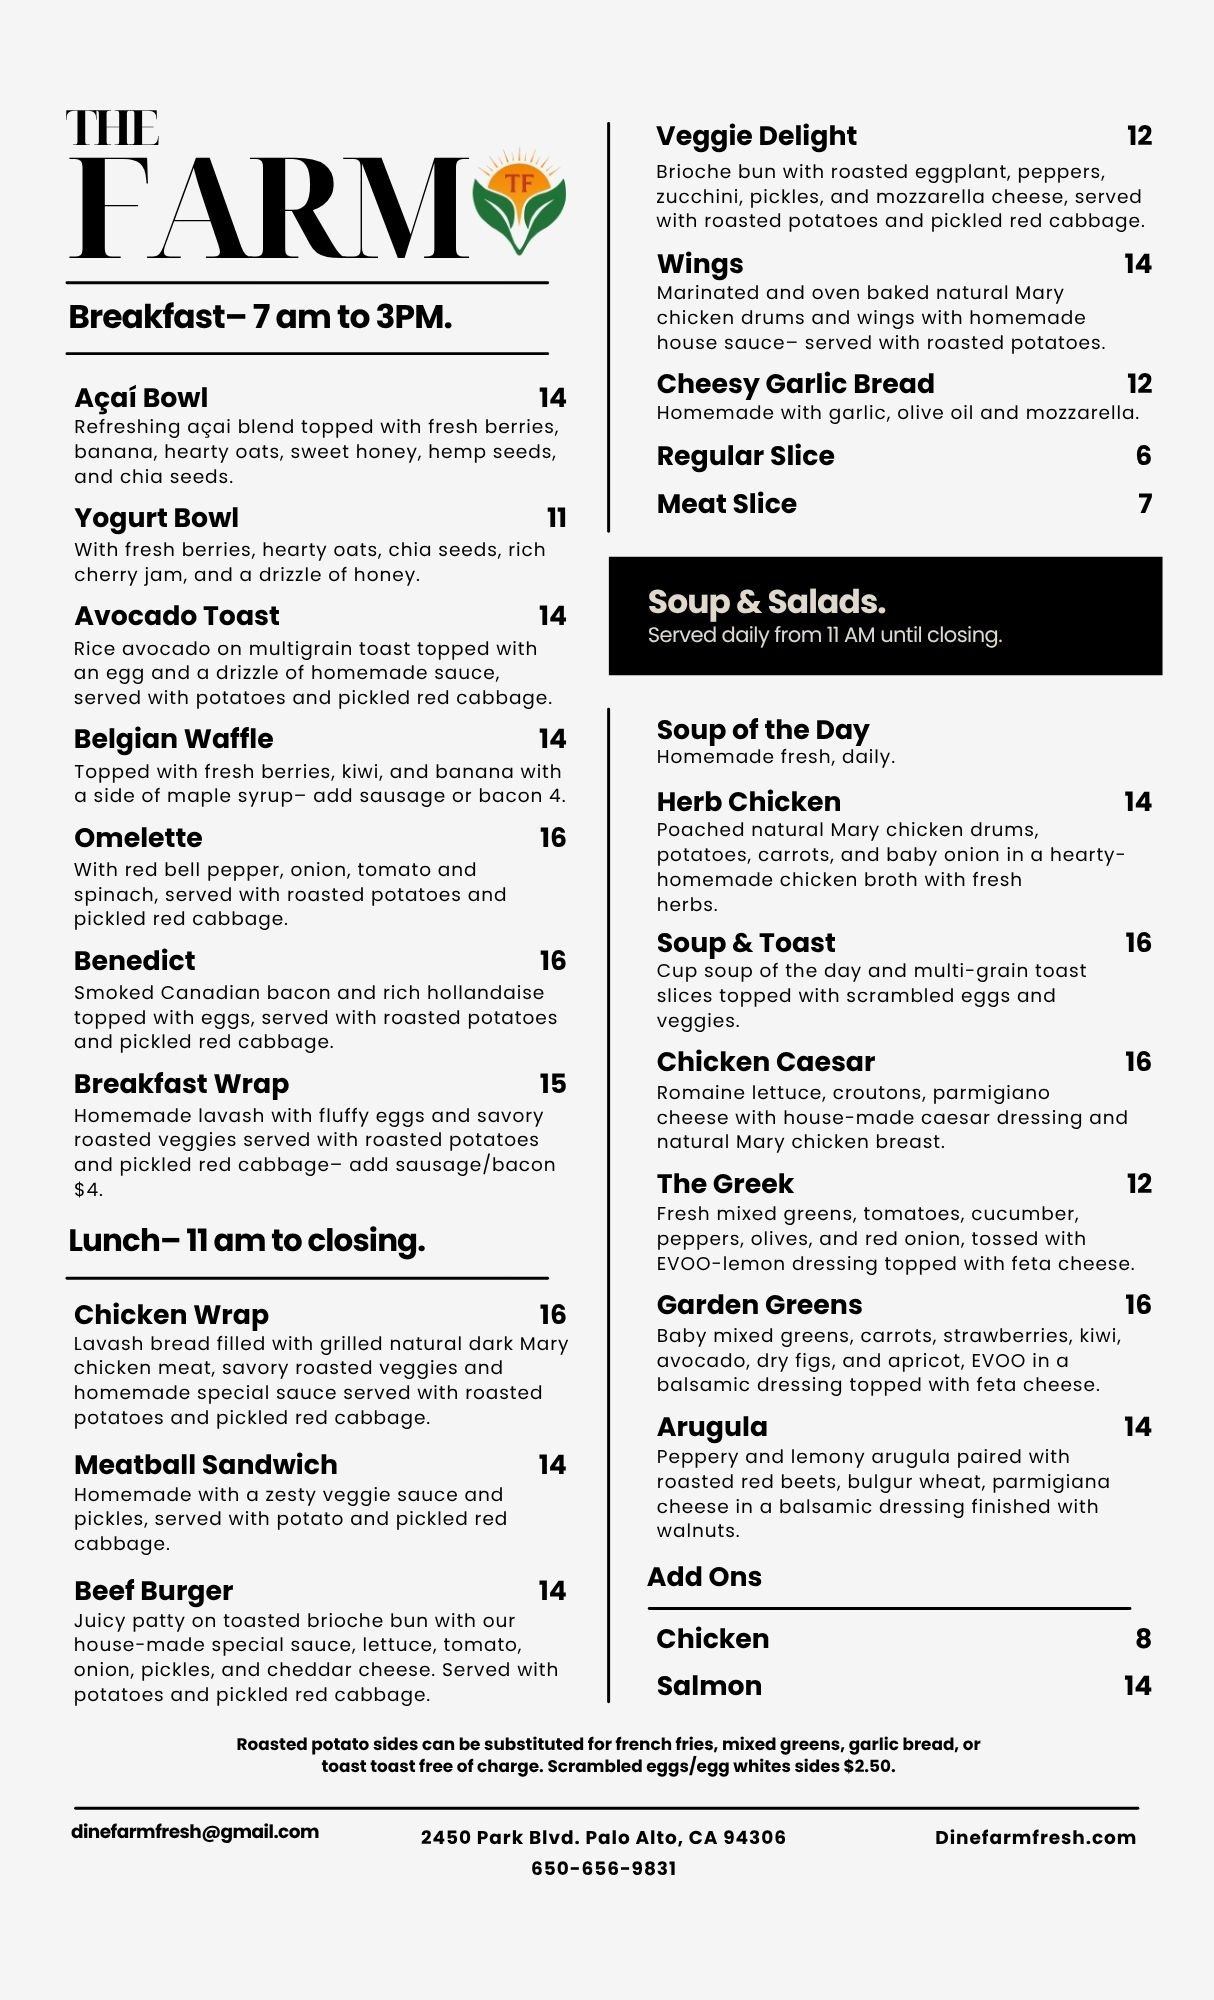
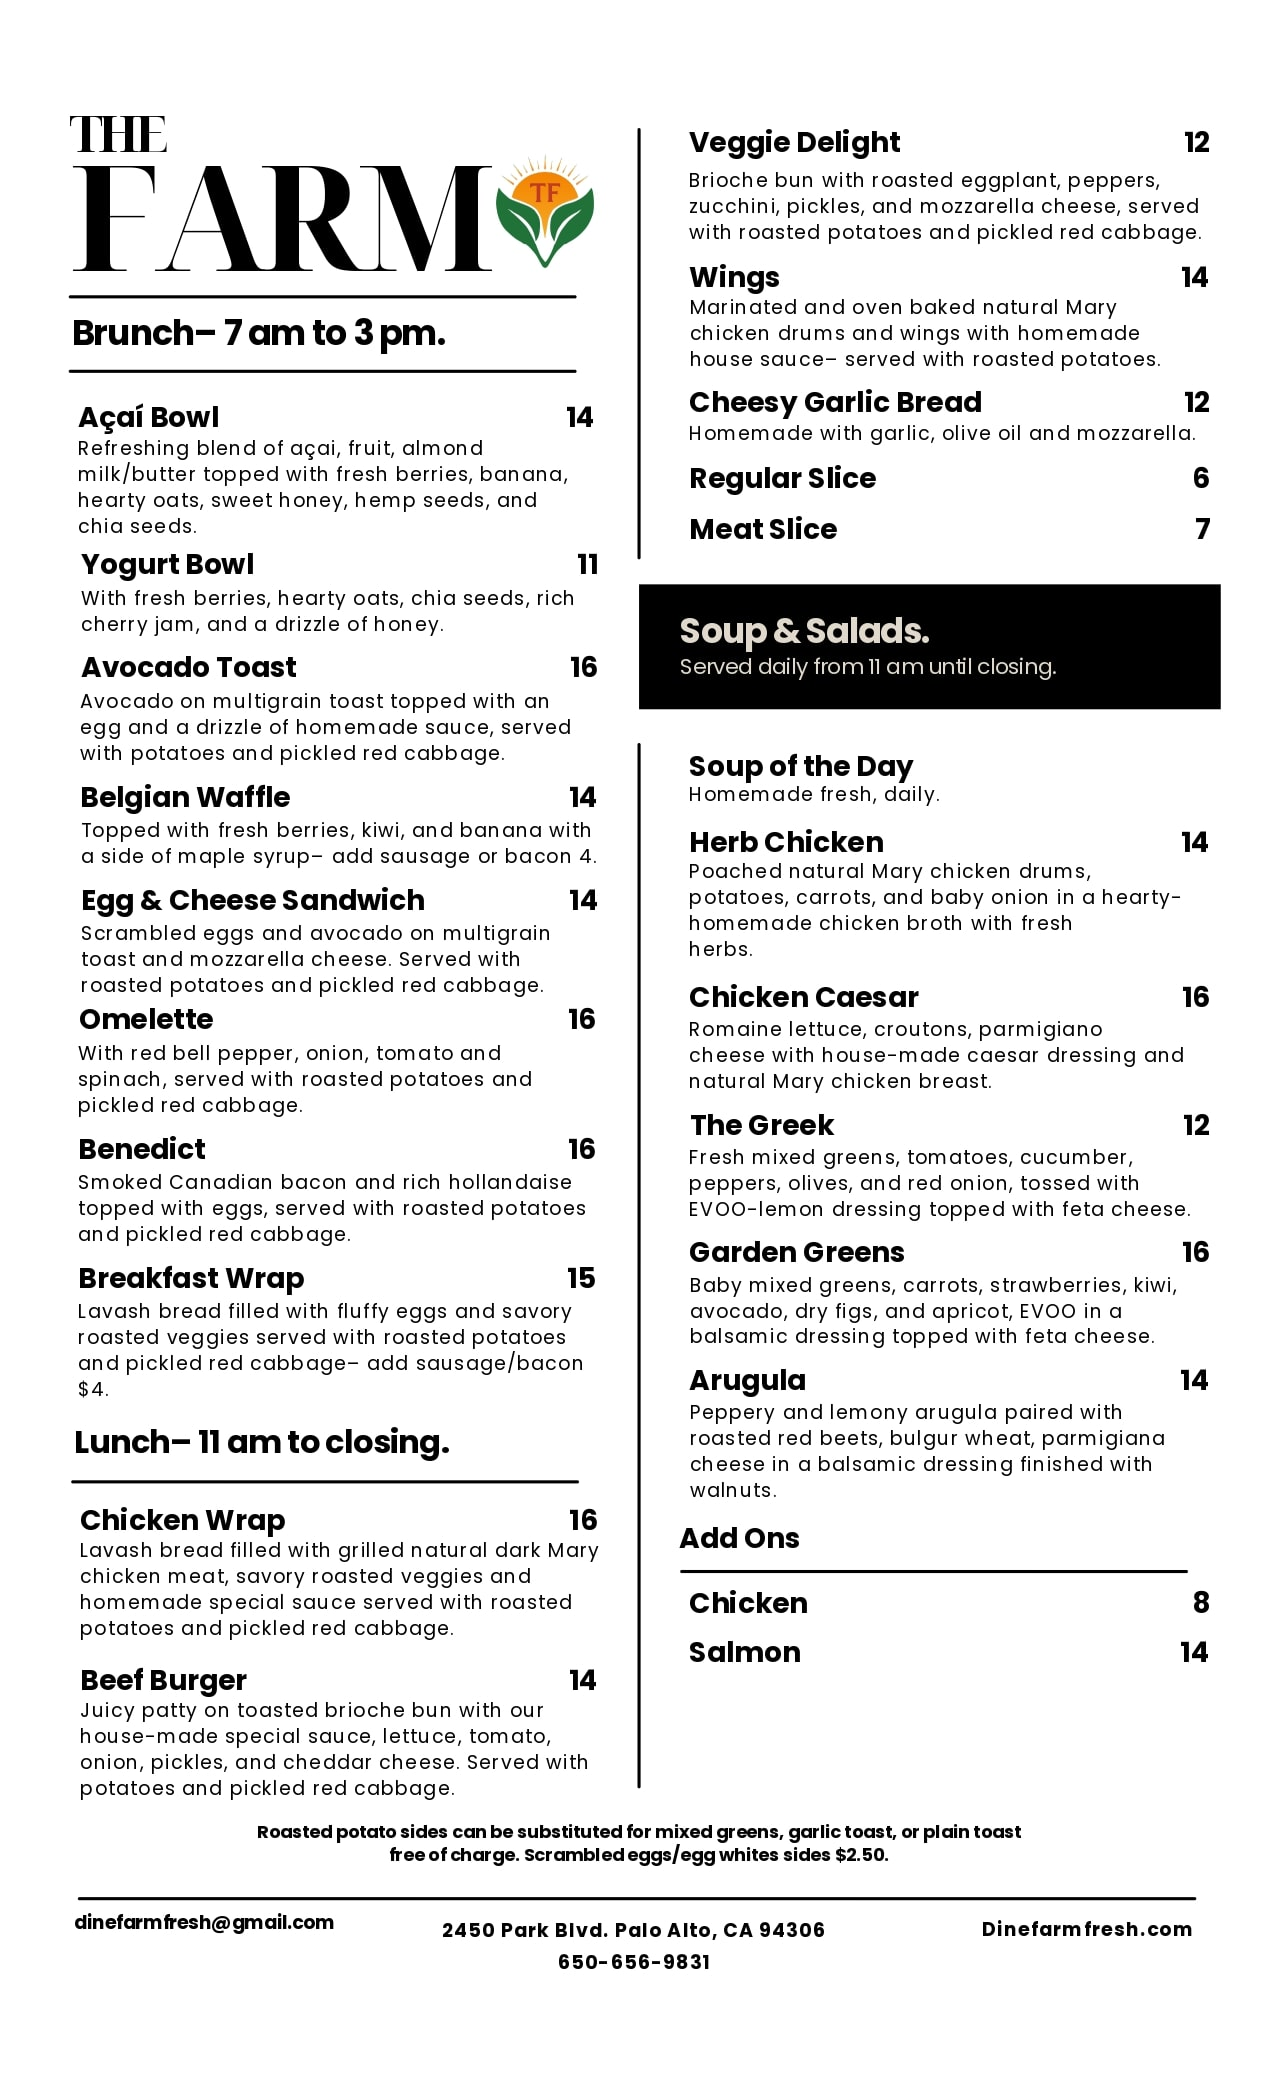
Modified footer, added order online buttons to header and main page, added mobile header functionality

diff --git a/src/components/header/navigation.tsx b/src/components/header/navigation.tsx
@@ -3,24 +3,49 @@ import { NavLink } from "react-router-dom";
 export function Navigation(){
     return(
         <nav className = "text-white font-medium">
-            <ul className="flex justify-center space-x-12 list-none p-0 m-0">
-                <li className="group">
-                    <NavLink to="/" className={({ isActive, isPending }) => isPending ? "pending" : isActive ? "text-lg font-bold" :"text-lg"}>
-                        Home
-                     </NavLink>
-                     <span className="block max-w-0 group-hover:max-w-full transition-all duration-300 h-0.5 bg-white"></span>
+            <ul className="flex flex-col md:flex-row justify-center space-y-4 md:space-y-0 md:space-x-12 list-none p-0 m-0 text-center">
+                <li className="group inline-block">
+                    <NavLink to="/" className="relative text-lg">
+                        {({ isActive }) => (
+                        <>
+                            <span className={isActive ? "font-bold" : ""}>Home</span>
+                            <span
+                            className={`absolute left-0 -bottom-1 h-0.5 bg-white transition-all duration-300 ${
+                                isActive ? "w-full" : "w-0 group-hover:w-full"
+                            }`}
+                            ></span>
+                        </>
+                        )}
+                    </NavLink>
                 </li>
-                <li className="group">
-                    <NavLink to="/menu" className={({ isActive, isPending }) => isPending ? "pending" : isActive ? "text-lg font-bold" :"text-lg"}>
-                        Menu
-                     </NavLink>
-                     <span className="block max-w-0 group-hover:max-w-full transition-all duration-300 h-0.5 bg-white"></span>
+
+                <li className="group inline-block">
+                    <NavLink to="/menu" className="relative text-lg">
+                        {({ isActive }) => (
+                        <>
+                            <span className={isActive ? "font-bold" : ""}>Menu</span>
+                            <span
+                            className={`absolute left-0 -bottom-1 h-0.5 bg-white transition-all duration-300 ${
+                                isActive ? "w-full" : "w-0 group-hover:w-full"
+                            }`}
+                            ></span>
+                        </>
+                        )}
+                    </NavLink>
                 </li>
-                <li className="group">
-                    <NavLink to="/about" className={({ isActive, isPending }) => isPending ? "pending" : isActive ? "text-lg font-bold" :"text-lg"}>
-                        About
-                     </NavLink>
-                     <span className="block max-w-0 group-hover:max-w-full transition-all duration-300 h-0.5 bg-white"></span>
+                <li className="group inline-block">
+                    <NavLink to="/about" className="relative text-lg">
+                        {({ isActive }) => (
+                        <>
+                            <span className={isActive ? "font-bold" : ""}>About</span>
+                            <span
+                            className={`absolute left-0 -bottom-1 h-0.5 bg-white transition-all duration-300 ${
+                                isActive ? "w-full" : "w-0 group-hover:w-full"
+                            }`}
+                            ></span>
+                        </>
+                        )}
+                    </NavLink>
                 </li>
 
                 {/* <li className="group">

diff --git a/src/components/footer.tsx b/src/components/footer.tsx
@@ -1,10 +1,49 @@
 export default function Footer(){
     return (
-    <footer className="bg-black text-white py-4">
-        <div className="col-span-2 md:col-span-1 mx-auto text-center">
-            <p className="text-sm">&copy; 2025 The Farm. All rights reserved.</p>
-            <p className="text-sm mt-2">2450 Park Blvd. Palo Alto, CA 94306 | 650-656-9831</p>
+      <footer className="bg-black text-white py-4 border-t border-gray-700">
+        <div className="max-w-7xl mx-auto flex items-center justify-between px-4 py-4 md:px-8">
+            <div className="text-sm">
+                <p >&copy; 2025 The Farm. All rights reserved.</p>
+                {/* <p>
+                    Designed by <a 
+                        href="https://www.linkedin.com/in/erickhigareda" 
+                        target="_blank" 
+                        rel="noopener noreferrer" 
+                        className="underline hover:text-gray-300"
+                    >
+                        Erick Higareda
+                    </a>
+                </p> */}
+            </div>
+            <div className="text-sm space-y-3">
+                <p><strong>Contact</strong></p>
+                <p>2450 Park Blvd.</p>
+                <p>Palo Alto, CA 94306</p>
+                <a href="tel:6506569831" className="block">Phone: 650-656-9831</a>
+                <a href="mailto:dinefarmfresh@gmail.com" className="block">Email: dinefarmfresh@gmail.com</a>
+            </div>
+            <div className="text-sm space-y-3">
+            <p><strong>Hours</strong></p>
+            <p>Mon-Fri: 7am – 9pm</p>
+            <p>Sat-Sun: 8am – 9pm</p>
+            </div>
+            <div className="text-sm space-y-3">
+                <p><strong>Socials</strong></p>
+                <a href="https://instagram.com/thefarmpaloalto" aria-label="Instagram" className="hover:text-gray-300">
+                <svg
+                    xmlns="http://www.w3.org/2000/svg"
+                    viewBox="0 0 50 50"
+                    fill="none"
+                    stroke="currentColor"
+                    strokeWidth="3" 
+                    className="h-6 w-6"
+                    >
+                    <path d="M 16 3 C 8.8324839 3 3 8.8324839 3 16 L 3 34 C 3 41.167516 8.8324839 47 16 47 L 34 47 C 41.167516 47 47 41.167516 47 34 L 47 16 C 47 8.8324839 41.167516 3 34 3 L 16 3 z M 16 5 L 34 5 C 40.086484 5 45 9.9135161 45 16 L 45 34 C 45 40.086484 40.086484 45 34 45 L 16 45 C 9.9135161 45 5 40.086484 5 34 L 5 16 C 5 9.9135161 9.9135161 5 16 5 z M 37 11 A 2 2 0 0 0 35 13 A 2 2 0 0 0 37 15 A 2 2 0 0 0 39 13 A 2 2 0 0 0 37 11 z M 25 14 C 18.936712 14 14 18.936712 14 25 C 14 31.063288 18.936712 36 25 36 C 31.063288 36 36 31.063288 36 25 C 36 18.936712 31.063288 14 25 14 z M 25 16 C 29.982407 16 34 20.017593 34 25 C 34 29.982407 29.982407 34 25 34 C 20.017593 34 16 29.982407 16 25 C 16 20.017593 20.017593 16 25 16 z"></path>
+                    </svg>
+                </a>
+            </div>
         </div>
-    </footer>
+      </footer>
     )
-}
+  }
+  

diff --git a/src/components/header/header.tsx b/src/components/header/header.tsx
@@ -1,15 +1,42 @@
+import { useState } from "react";
 import { Logo } from "./logo"
 import { Navigation } from "./navigation"
+import { Button } from "@/components/ui/button";
+import { Menu, X } from "lucide-react";
 
 export default function Header(){
+    const [menuOpen, setMenuOpen] = useState(false);
     return (
         <header className="w-full bg-black border-b sticky top-0 py-4 z-50 shadow-md">
-            <div className="container mx-auto flex items-center justify-between px-4 relative">
+            <div className="container mx-auto flex items-center justify-between px-4">
                 <Logo/>
-                <div className="absolute left-1/2 transform -translate-x-1/2">
+                <div className="hidden md:flex flex-grow justify-center">
                     <Navigation/>
                 </div> 
+                <div className="hidden md:block">
+                    <a href="https://order.toasttab.com/online/the-farm-fresh-2450-park-blvd?diningOption=takeout&rwg_token=ACgRB3fvQEFwvW2g7njpOu9ADeVaVYhX-rLQocFp3s1iMnBrTVbGfBOiPuxfZNCIqgpCBCLug0Y_M9U1GVVDbPTfXmM16TU6Mw%3D%3D">
+                        <Button className="bg-darkgreen text-white px-6 py-3 rounded-full font-semibold hover:bg-gray-700 transition">
+                            Order Online
+                        </Button>
+                    </a>
+                </div>
+                <button 
+                className="md:hidden text-white"
+                onClick={()=>setMenuOpen(!menuOpen)}
+                aria-label="Toggle Menu">
+                    {menuOpen ? <X size={28}/> : <Menu size={28}/>}
+                </button>
             </div>
+            {menuOpen && (
+                <div className="md:hidden bg-black border-t border-gray-700 px-4 pb-4">
+                    <Navigation/>
+                    <a href="https://order.toasttab.com/online/the-farm-fresh-2450-park-blvd?diningOption=takeout&rwg_token=ACgRB3fvQEFwvW2g7njpOu9ADeVaVYhX-rLQocFp3s1iMnBrTVbGfBOiPuxfZNCIqgpCBCLug0Y_M9U1GVVDbPTfXmM16TU6Mw%3D%3D">
+                        <Button className="mt-4 w-full bg-darkgreen text-white font-semibold hover:bg-gray-700 transition">
+                            Order Online
+                        </Button>
+                    </a>
+                </div>
+            )}
         </header>
-    )
+    );
 }

diff --git a/src/pages/HomePage.tsx b/src/pages/HomePage.tsx
@@ -26,12 +26,13 @@ export default function Home() {
         <h1 className="text-4xl md:text-6xl text-black font-bold mb-4">
           The Farm
         </h1>
-        <Button
-          asChild
-          className="bg-black text-white px-6 py-3 rounded-full font-semibold hover:bg-gray-700 transition"
-        >
-          <NavLink to="/menu">See Menu</NavLink>
-        </Button>
+        <a href="https://order.toasttab.com/online/the-farm-fresh-2450-park-blvd?diningOption=takeout&rwg_token=ACgRB3fvQEFwvW2g7njpOu9ADeVaVYhX-rLQocFp3s1iMnBrTVbGfBOiPuxfZNCIqgpCBCLug0Y_M9U1GVVDbPTfXmM16TU6Mw%3D%3D">
+                        <Button className="mt-4 w-full rounded-full bg-darkgreen text-white font-semibold hover:bg-gray-700 transition shadow-md/40">
+                            Order Online
+                        </Button>
+                    </a>
+
+
       </div>
       
       {/* Width-limited carousel */}
@@ -61,7 +62,7 @@ export default function Home() {
       </div>
       <div className="mt-8 w-full max-w-3xl mx-auto px-4">
         <p className="text-gray-700">
-        Welcome to The Farm, a family-owned café where fresh ingredients and a warm, inviting atmosphere come together. We’re passionate about serving delicious, handcrafted pizzas and unique custom drinks made with care. Whether you’re here for a quiet morning coffee, a relaxed lunch, or a cozy dinner, The Farm offers a space to unwind and enjoy the taste of fresh, quality food. Rooted in family values and community spirit, our goal is to make every visit feel like home.        </p>
+        Welcome to The Farm, a family-owned café where fresh ingredients and a warm, inviting atmosphere come together. We’re passionate about serving delicious, handcrafted entrees and unique custom drinks made with care. Whether you’re here for a quiet morning coffee, a relaxed lunch, or a cozy dinner, The Farm offers a space to unwind and enjoy the taste of fresh, quality food. Rooted in family values and community spirit, our goal is to make every visit feel like home.        </p>
       </div>
     </section>
   );
